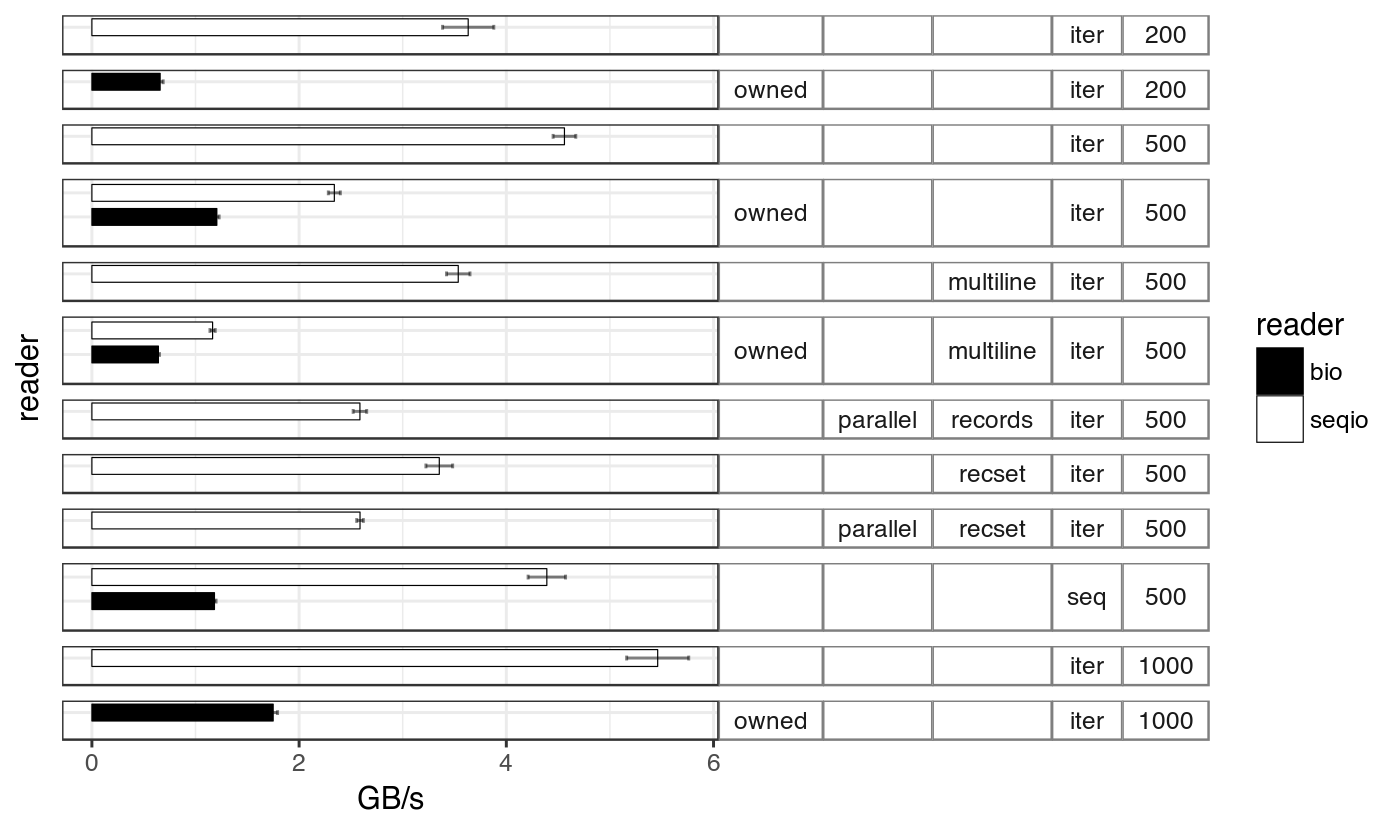
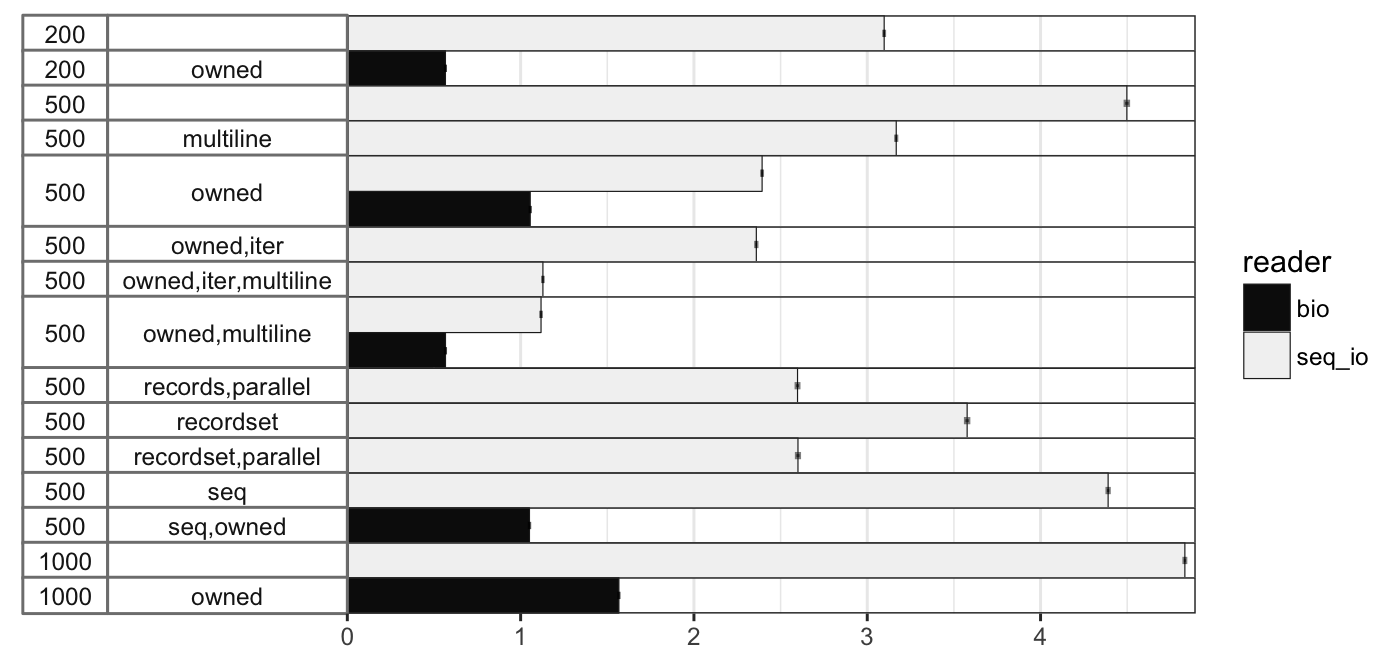
Fix benchmarks

Changed region(s): [[0.0, 0.0, 0.9829, 1.0], [0.4914, 0.6667, 0.5221, 0.7273]]

diff --git a/benches/fastq.rs b/benches/fastq.rs
@@ -13,6 +13,7 @@ use criterion::Criterion;
 use rand::distributions::Normal;
 use rand::{IsaacRng, Rng, SeedableRng};
 use std::iter::repeat;
+use seq_io::fastq::Record;
 
 /// number of records for all benchmarks
 const N: usize = 10_000;
@@ -68,16 +69,22 @@ lazy_static! {
     static ref L500: Vec<u8> = { with_seqlen(N, 500, false, false) };
 }
 
-macro_rules! bench {
-    ($c:expr, $name:expr, $seqlen:expr, $data:ident, $code:block) => {
-        let data = with_seqlen(N, $seqlen, false, false);
-        let name = format!("{} {}", $name, data.len());
+macro_rules! bench_base {
+    ($c:expr, $name:expr, $input_data:expr, $data:ident, $code:block) => {
+        let name = format!("fastq {} {}", $name, $input_data.len());
         $c.bench_function(&name, move |b| {
             b.iter(|| {
-                let $data = data.as_slice();
+                let $data = $input_data.as_slice();
                 $code
             })
         });
+    };
+}
+
+macro_rules! bench {
+    ($c:expr, $name:expr, $seqlen:expr, $data:ident, $code:block) => {
+        let data = with_seqlen(N, $seqlen, false, false);
+        bench_base!($c, $name, data, $data, $code);
     };
 }
 
@@ -129,32 +136,32 @@ macro_rules! fastq_rs {
 
 macro_rules! bench_static500 {
     ($c:expr, $name:expr, $data:ident, $code:block) => {
-        let $data: &'static [u8] = &L500 as &[u8];
-        let name = format!("{} {}", $name, $data.len());
-        $c.bench_function(&name, move |b| b.iter(|| $code));
+        bench_base!($c, $name, &L500 as &Vec<u8>, $data, $code);
     };
 }
 
+
 fn readers(c: &mut Criterion) {
-    fastq!(c, "fastq seq_io 200 ", 200, r, {});
-    fastq!(c, "fastq seq_io 500 ", 500, r, {});
-    fastq_owned!(c, "fastq seq_io 500 owned", 500);
-    fastq_rs!(c, "fastq_rs seq_io 500 ", 500, r, {});
-    fastq_rs!(c, "fastq_rs seq_io 500 owned", 500, r, {
+    fastq!(c, "seq_io 200 ", 200, r, {});
+    fastq!(c, "seq_io 500 ", 500, r, {});
+    fastq_owned!(c, "seq_io 500 owned,iter", 500);
+    fastq!(c, "seq_io 500 owned", 500, r, {
         let _ = r.to_owned_record();
     });
-    fastq!(c, "fastq seq_io 1000 ", 1000, r, {});
+    fastq_rs!(c, "fastq_rs 500 ", 500, r, {});
+    fastq_rs!(c, "fastq_rs 500 owned", 500, r, {
+        let _ = r.to_owned_record();
+    });
+    fastq!(c, "seq_io 1000 ", 1000, r, {});
 
-    bio!(c, "fastq bio 200 owned", 200, r, {});
-    bio!(c, "fastq bio 500 owned", 500, r, {});
-    bio!(c, "fastq bio 1000 ", 1000, r, {});
+    bio!(c, "bio 200 owned", 200, r, {});
+    bio!(c, "bio 500 owned", 500, r, {});
+    bio!(c, "bio 1000 owned", 1000, r, {});
 
-    bench!(c, "fastq seqio 500 recordset,parallel", 500, data, {
+    bench!(c, "seq_io 500 recordset,parallel", 500, data, {
         let reader = seq_io::fastq::Reader::new(data);
         seq_io::parallel::read_parallel(
-            reader,
-            2,
-            2,
+            reader, 2, 2,
             |rset| {
                 for _ in &*rset {}
             },
@@ -167,7 +174,7 @@ fn readers(c: &mut Criterion) {
         );
     });
 
-    bench!(c, "fastq seqio 500 records,parallel", 500, data, {
+    bench!(c, "seq_io 500 records,parallel", 500, data, {
         let reader = seq_io::fastq::Reader::new(data);
         seq_io::parallel::parallel_fastq::<_, (), _, _, ()>(reader, 2, 2, |_, _| {}, |_, _| None)
             .unwrap();
@@ -175,7 +182,7 @@ fn readers(c: &mut Criterion) {
 
     // read into record sets without parallelism
 
-    bench!(c, "fastq seqio 500 recordset", 500, data, {
+    bench!(c, "seq_io 500 recordset", 500, data, {
         let mut reader = seq_io::fastq::Reader::new(data);
         let mut rset = seq_io::fastq::RecordSet::default();
         while let Some(result) = reader.read_record_set(&mut rset) {
@@ -184,11 +191,14 @@ fn readers(c: &mut Criterion) {
         }
     });
 
-    bio!(c, "fastq bio 500 seq", 500, r, {
+    fastq!(c, "seq_io 500 seq", 500, r, {
+        let _ = r.seq();
+    });
+    bio!(c, "bio 500 seq,owned", 500, r, {
         let _ = r.seq();
     });
 
-    bench_static500!(c, "fastq fastq_rs 500 recordset,parallel", data, {
+    bench_static500!(c, "fastq_rs 500 recordset,parallel", data, {
         let parser = fastq::Parser::new(data);
         let res: Vec<_> = parser
             .parallel_each(2, |rsets| {
@@ -213,26 +223,26 @@ macro_rules! bench_cap {
 }
 
 fn readers_cap(c: &mut Criterion) {
-    bench_cap!(c, "fastq seq_io_cap 200 8ki", 200, 1 << 13, N);
-    bench_cap!(c, "fastq seq_io_cap 200 16ki", 200, 1 << 14, N);
-    bench_cap!(c, "fastq seq_io_cap 200 32ki", 200, 1 << 15, N);
-    bench_cap!(c, "fastq seq_io_cap 200 64ki", 200, 1 << 16, N);
-    bench_cap!(c, "fastq seq_io_cap 200 128ki", 200, 1 << 17, N);
-    bench_cap!(c, "fastq seq_io_cap 200 256ki", 200, 1 << 18, N);
+    bench_cap!(c, "seq_io_cap 200 8ki", 200, 1 << 13, N);
+    bench_cap!(c, "seq_io_cap 200 16ki", 200, 1 << 14, N);
+    bench_cap!(c, "seq_io_cap 200 32ki", 200, 1 << 15, N);
+    bench_cap!(c, "seq_io_cap 200 64ki", 200, 1 << 16, N);
+    bench_cap!(c, "seq_io_cap 200 128ki", 200, 1 << 17, N);
+    bench_cap!(c, "seq_io_cap 200 256ki", 200, 1 << 18, N);
 
-    bench_cap!(c, "fastq seq_io_cap 1000 8ki", 1000, 1 << 13, N);
-    bench_cap!(c, "fastq seq_io_cap 1000 16ki", 1000, 1 << 14, N);
-    bench_cap!(c, "fastq seq_io_cap 1000 32ki", 1000, 1 << 15, N);
-    bench_cap!(c, "fastq seq_io_cap 1000 64ki", 1000, 1 << 16, N);
-    bench_cap!(c, "fastq seq_io_cap 1000 128ki", 1000, 1 << 17, N);
-    bench_cap!(c, "fastq seq_io_cap 1000 256ki", 1000, 1 << 18, N);
+    bench_cap!(c, "seq_io_cap 1000 8ki", 1000, 1 << 13, N);
+    bench_cap!(c, "seq_io_cap 1000 16ki", 1000, 1 << 14, N);
+    bench_cap!(c, "seq_io_cap 1000 32ki", 1000, 1 << 15, N);
+    bench_cap!(c, "seq_io_cap 1000 64ki", 1000, 1 << 16, N);
+    bench_cap!(c, "seq_io_cap 1000 128ki", 1000, 1 << 17, N);
+    bench_cap!(c, "seq_io_cap 1000 256ki", 1000, 1 << 18, N);
 
-    bench_cap!(c, "fastq seq_io_cap 10000 8ki", 10000, 1 << 13, N / 10);
-    bench_cap!(c, "fastq seq_io_cap 10000 16ki", 10000, 1 << 14, N / 10);
-    bench_cap!(c, "fastq seq_io_cap 10000 32ki", 10000, 1 << 15, N / 10);
-    bench_cap!(c, "fastq seq_io_cap 10000 64ki", 10000, 1 << 16, N / 10);
-    bench_cap!(c, "fastq seq_io_cap 10000 128ki", 10000, 1 << 17, N / 10);
-    bench_cap!(c, "fastq seq_io_cap 10000 256ki", 10000, 1 << 18, N / 10);
+    bench_cap!(c, "seq_io_cap 10000 8ki", 10000, 1 << 13, N / 10);
+    bench_cap!(c, "seq_io_cap 10000 16ki", 10000, 1 << 14, N / 10);
+    bench_cap!(c, "seq_io_cap 10000 32ki", 10000, 1 << 15, N / 10);
+    bench_cap!(c, "seq_io_cap 10000 64ki", 10000, 1 << 16, N / 10);
+    bench_cap!(c, "seq_io_cap 10000 128ki", 10000, 1 << 17, N / 10);
+    bench_cap!(c, "seq_io_cap 10000 256ki", 10000, 1 << 18, N / 10);
 }
 
 criterion_group!(benches, readers, readers_cap);

diff --git a/benches/fasta.rs b/benches/fasta.rs
@@ -74,7 +74,7 @@ fn with_seqlen(nrecords: usize, seq_len: usize, break_seq: Option<usize>, cr: bo
 macro_rules! bench {
     ($c:expr, $name:expr, $seqlen:expr, $lbreak:expr, $data:ident, $code:block) => {
         let data = with_seqlen(N, $seqlen, $lbreak, false);
-        let name = format!("{} {}", $name, data.len());
+        let name = format!("fasta {} {}", $name, data.len());
         $c.bench_function(&name, move |b| {
             b.iter(|| {
                 let $data = data.as_slice();
@@ -119,24 +119,28 @@ macro_rules! bio {
 }
 
 fn readers(c: &mut Criterion) {
-    fasta!(c, "fasta seq_io 200 ", 200, None, r, {});
-    fasta!(c, "fasta seq_io 500 ", 500, None, r, {});
-    fasta!(c, "fasta seq_io 500 multiline ", 500, Some(100), r, {});
-    fasta_owned!(c, "fasta seq_io 500 owned", 500, None);
-    fasta_owned!(c, "fasta seq_io 500 owned,multiline", 500, Some(100));
-    fasta!(c, "fasta seq_io 1000 ", 1000, None, r, {});
+    fasta!(c, "seq_io 200 ", 200, None, r, {});
+    fasta!(c, "seq_io 500 ", 500, None, r, {});
+    fasta!(c, "seq_io 500 multiline", 500, Some(100), r, {});
+    fasta_owned!(c, "seq_io 500 owned,iter", 500, None);
+    fasta_owned!(c, "seq_io 500 owned,iter,multiline", 500, Some(100));
+    fasta!(c, "seq_io 500 owned,multiline", 500, Some(100), r, {
+        let _ = r.to_owned_record();
+    });
+    fasta!(c, "seq_io 500 owned", 500, None, r, {
+        let _ = r.to_owned_record();
+    });
+    fasta!(c, "seq_io 1000 ", 1000, None, r, {});
 
-    bio!(c, "fasta bio 200 owned", 200, None, r, {});
-    bio!(c, "fasta bio 500 owned", 500, None, r, {});
-    bio!(c, "fasta bio 500 owned,multiline", 500, Some(100), r, {});
-    bio!(c, "fasta bio 1000 ", 1000, None, r, {});
+    bio!(c, "bio 200 owned", 200, None, r, {});
+    bio!(c, "bio 500 owned", 500, None, r, {});
+    bio!(c, "bio 500 owned,multiline", 500, Some(100), r, {});
+    bio!(c, "bio 1000 owned", 1000, None, r, {});
 
-    bench!(c, "fasta seqio 500 recordset,parallel", 500, None, data, {
+    bench!(c, "seq_io 500 recordset,parallel", 500, None, data, {
         let reader = fasta::Reader::new(data);
         seq_io::parallel::read_parallel(
-            reader,
-            2,
-            2,
+            reader, 2, 2,
             |rset| {
                 for _ in &*rset {}
             },
@@ -149,7 +153,7 @@ fn readers(c: &mut Criterion) {
         );
     });
 
-    bench!(c, "fasta seqio 500 records,parallel", 500, None, data, {
+    bench!(c, "seq_io 500 records,parallel", 500, None, data, {
         let reader = fasta::Reader::new(data);
         seq_io::parallel::parallel_fasta::<_, (), _, _, ()>(reader, 2, 2, |_, _| {}, |_, _| None)
             .unwrap();
@@ -157,7 +161,7 @@ fn readers(c: &mut Criterion) {
 
     // read into record sets without parallelism
 
-    bench!(c, "fasta seqio 500 recordset", 500, None, data, {
+    bench!(c, "seq_io 500 recordset", 500, None, data, {
         let mut reader = fasta::Reader::new(data);
         let mut rset = fasta::RecordSet::default();
         while let Some(result) = reader.read_record_set(&mut rset) {
@@ -166,11 +170,11 @@ fn readers(c: &mut Criterion) {
         }
     });
 
-    fasta!(c, "fasta seqio 500 seq", 500, None, r, {
+    fasta!(c, "seq_io 500 seq", 500, None, r, {
         for _ in r.seq_lines() {}
     });
 
-    bio!(c, "fasta bio 500 seq", 500, None, r, {
+    bio!(c, "bio 500 seq,owned", 500, None, r, {
         let _ = r.seq();
     });
 }
@@ -189,26 +193,26 @@ macro_rules! bench_cap {
 }
 
 fn readers_cap(c: &mut Criterion) {
-    bench_cap!(c, "fasta seq_io_cap 200 8ki", 200, 1 << 13, N);
-    bench_cap!(c, "fasta seq_io_cap 200 16ki", 200, 1 << 14, N);
-    bench_cap!(c, "fasta seq_io_cap 200 32ki", 200, 1 << 15, N);
-    bench_cap!(c, "fasta seq_io_cap 200 64ki", 200, 1 << 16, N);
-    bench_cap!(c, "fasta seq_io_cap 200 128ki", 200, 1 << 17, N);
-    bench_cap!(c, "fasta seq_io_cap 200 256ki", 200, 1 << 18, N);
+    bench_cap!(c, "seq_io_cap 200 8ki", 200, 1 << 13, N);
+    bench_cap!(c, "seq_io_cap 200 16ki", 200, 1 << 14, N);
+    bench_cap!(c, "seq_io_cap 200 32ki", 200, 1 << 15, N);
+    bench_cap!(c, "seq_io_cap 200 64ki", 200, 1 << 16, N);
+    bench_cap!(c, "seq_io_cap 200 128ki", 200, 1 << 17, N);
+    bench_cap!(c, "seq_io_cap 200 256ki", 200, 1 << 18, N);
 
-    bench_cap!(c, "fasta seq_io_cap 1000 8ki", 1000, 1 << 13, N);
-    bench_cap!(c, "fasta seq_io_cap 1000 16ki", 1000, 1 << 14, N);
-    bench_cap!(c, "fasta seq_io_cap 1000 32ki", 1000, 1 << 15, N);
-    bench_cap!(c, "fasta seq_io_cap 1000 64ki", 1000, 1 << 16, N);
-    bench_cap!(c, "fasta seq_io_cap 1000 128ki", 1000, 1 << 17, N);
-    bench_cap!(c, "fasta seq_io_cap 1000 256ki", 1000, 1 << 18, N);
+    bench_cap!(c, "seq_io_cap 1000 8ki", 1000, 1 << 13, N);
+    bench_cap!(c, "seq_io_cap 1000 16ki", 1000, 1 << 14, N);
+    bench_cap!(c, "seq_io_cap 1000 32ki", 1000, 1 << 15, N);
+    bench_cap!(c, "seq_io_cap 1000 64ki", 1000, 1 << 16, N);
+    bench_cap!(c, "seq_io_cap 1000 128ki", 1000, 1 << 17, N);
+    bench_cap!(c, "seq_io_cap 1000 256ki", 1000, 1 << 18, N);
 
-    bench_cap!(c, "fasta seq_io_cap 10000 8ki", 10000, 1 << 13, N / 10);
-    bench_cap!(c, "fasta seq_io_cap 10000 16ki", 10000, 1 << 14, N / 10);
-    bench_cap!(c, "fasta seq_io_cap 10000 32ki", 10000, 1 << 15, N / 10);
-    bench_cap!(c, "fasta seq_io_cap 10000 64ki", 10000, 1 << 16, N / 10);
-    bench_cap!(c, "fasta seq_io_cap 10000 128ki", 10000, 1 << 17, N / 10);
-    bench_cap!(c, "fasta seq_io_cap 10000 256ki", 10000, 1 << 18, N / 10);
+    bench_cap!(c, "seq_io_cap 10000 8ki", 10000, 1 << 13, N / 10);
+    bench_cap!(c, "seq_io_cap 10000 16ki", 10000, 1 << 14, N / 10);
+    bench_cap!(c, "seq_io_cap 10000 32ki", 10000, 1 << 15, N / 10);
+    bench_cap!(c, "seq_io_cap 10000 64ki", 10000, 1 << 16, N / 10);
+    bench_cap!(c, "seq_io_cap 10000 128ki", 10000, 1 << 17, N / 10);
+    bench_cap!(c, "seq_io_cap 10000 256ki", 10000, 1 << 18, N / 10);
 }
 
 criterion_group!(benches, readers, readers_cap);

diff --git a/README.md b/README.md
@@ -73,7 +73,7 @@ to allocations, copying, and UTF-8 validity checks.
 
 All comparisons were run on a set of 100,000 auto-generated, synthetic sequences
 with lengths normally distributed around 500 bp and loaded into memory.
-The parsers from this crate (*seqio*) are compared with [fastq-rs](https://github.com/aseyboldt/fastq-rs) (*fast_qrs*)
+The parsers from this crate (*seq_io*) are compared with [fastq-rs](https://github.com/aseyboldt/fastq-rs) (*fastq_rs*)
 and [Rust-Bio](https://rust-bio.github.io/) (*bio*).
 The bars represent the throughput in GB/s (+/- standard error of the mean).
 Run on a Mac Pro (Mid 2010, 2.8 GHz Quad-Core Intel Xeon, OS X 10.13) using Rust 1.23 nightly
